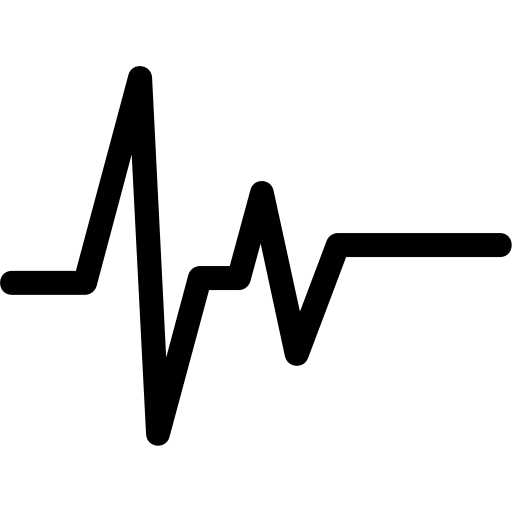
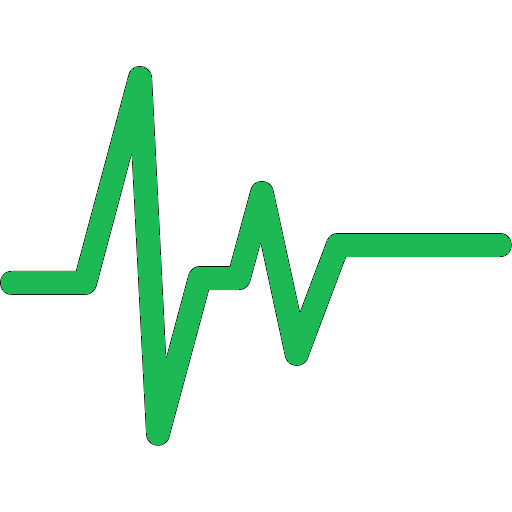
Merge pull request #2 from masheee/navbar
se cambio a color verde el logo de AlgoRitmo

Pull request: se cambio a color verde el logo de AlgoRitmo
yes

Changed region(s): [[0.0, 0.125, 1.0, 0.875]]

diff --git a/src/shared/Footer.jsx b/src/shared/Footer.jsx
@@ -1,4 +1,5 @@
-import { Container } from "react-bootstrap";
+import { Container, Row, Col } from "react-bootstrap";
+import { Github, Instagram, Linkedin } from "react-bootstrap-icons";
 import "../index.css";
 
 const Footer = () => {
@@ -7,13 +8,60 @@ const Footer = () => {
       style={{
         backgroundColor: "var(--color-surface)",
         color: "var(--color-muted)",
-        padding: "1rem",
-        textAlign: "center",
+        padding: "2rem 0",
+        marginTop: "auto",
       }}
     >
       <Container>
-        <p style={{ margin: 0 }}>
-          © 2025 MusicApp - Todos los derechos reservados
+        <Row>
+          {/* Sección 1: Marca */}
+          <Col md={4}>
+            <h5 style={{ color: "var(--color-primary)" }}>AlgoRitmo <img
+            src="/1233.png"
+            alt=" AlgoRitmo Icon"
+            style={{
+              width: "35px",
+              height: "35px",
+            }}
+            className="ms-1"
+          /></h5>
+            <p>Tu música, en cualquier momento.</p>
+          </Col>
+
+          {/* Sección 2: Navegación */}
+          <Col md={4}>
+            <h6>Enlaces</h6>
+            <ul style={{ listStyle: "none", padding: 0 }}>
+              <li><a href="/" style={{ color: "var(--color-muted)", textDecoration: "none" }}>Inicio</a></li>
+              <li><a href="/catalogo" style={{ color: "var(--color-muted)", textDecoration: "none" }}>Listas</a></li>
+              <li><a href="/about" style={{ color: "var(--color-muted)", textDecoration: "none" }}>Acerca de nosotros</a></li>
+              <li><a href="/login" style={{ color: "var(--color-muted)", textDecoration: "none" }}>Login</a></li>
+            </ul>
+          </Col>
+
+          {/* Sección 3: Contacto + Redes */}
+          <Col md={4}>
+            <h6>Contacto</h6>
+            <p>Email: [email redacted]</p>
+
+            <div style={{ display: "flex", gap: "1rem", marginTop: "0.5rem" }}>
+              <a href="https://github.com" target="_blank" rel="noopener noreferrer" style={{ color: "var(--color-muted)", fontSize: "1.5rem" }}>
+                <Github />
+              </a>
+              <a href="https://instagram.com" target="_blank" rel="noopener noreferrer" style={{ color: "var(--color-muted)", fontSize: "1.5rem" }}>
+                <Instagram />
+              </a>
+              <a href="https://linkedin.com" target="_blank" rel="noopener noreferrer" style={{ color: "var(--color-muted)", fontSize: "1.5rem" }}>
+                <Linkedin />
+              </a>
+            </div>
+          </Col>
+        </Row>
+
+        <hr style={{ borderColor: "var(--color-muted)" }} />
+
+        <p className="text-center" style={{ margin: 0 }}>
+          © 2025 AlgoRitmoApp - Todos los derechos reservados
         </p>
       </Container>
     </footer>

diff --git a/src/shared/Menu.jsx b/src/shared/Menu.jsx
@@ -1,28 +1,50 @@
-import Nav from 'react-bootstrap/Nav';
-import Navbar from 'react-bootstrap/Navbar';
-import Container from 'react-bootstrap/Container';
-import Button from 'react-bootstrap/Button';
+import Nav from "react-bootstrap/Nav";
+import Navbar from "react-bootstrap/Navbar";
+import Container from "react-bootstrap/Container";
+import Button from "react-bootstrap/Button";
 import "../index.css";
 
 const Menu = () => {
   return (
-    <Navbar expand="lg" style={{ backgroundColor: "var(--color-surface)" }} variant="dark">
+    <Navbar
+      expand="lg"
+      style={{ backgroundColor: "var(--color-surface)" }}
+      variant="dark"
+    >
       <Container>
-        <Navbar.Brand href="/" style={{ color: "var(--color-primary)", fontWeight: "bold" }}>
-          🎵 AlgoRitmo
+        <Navbar.Brand
+          href="/"
+          style={{ color: "var(--color-primary)", fontWeight: "bold" }}
+        >
+          <img
+            src="/1233.png"
+            alt=" AlgoRitmo Icon"
+            style={{
+              width: "35px",
+              height: "35px",
+            }}
+            className="me-2"
+          />
+          AlgoRitmo
         </Navbar.Brand>
         <Navbar.Toggle aria-controls="basic-navbar-nav" />
         <Navbar.Collapse id="basic-navbar-nav">
           <Nav className="ms-auto">
-            <Nav.Link href="/" style={{ color: "var(--color-text)" }}>Inicio</Nav.Link>
-            <Nav.Link href="/catalogo" style={{ color: "var(--color-text)" }}>Listas</Nav.Link>
-            <Nav.Link href="/nosotros" style={{ color: "var(--color-text)" }}>Nosotros</Nav.Link>
-            <Button 
-              href="/login" 
-              style={{ 
+            <Nav.Link href="/" style={{ color: "var(--color-text)" }}>
+              Inicio
+            </Nav.Link>
+            <Nav.Link href="/catalogo" style={{ color: "var(--color-text)" }}>
+              Listas
+            </Nav.Link>
+            <Nav.Link href="/nosotros" style={{ color: "var(--color-text)" }}>
+              Nosotros
+            </Nav.Link>
+            <Button
+              href="/login"
+              style={{
                 marginLeft: "1rem",
-                backgroundColor: "var(--color-primary)", 
-                border: "none" 
+                backgroundColor: "var(--color-primary)",
+                border: "none",
               }}
             >
               Ingresar

diff --git a/src/App.jsx b/src/App.jsx
@@ -1,4 +1,3 @@
-import { Container, Button, Card } from "react-bootstrap";
 import Menu from "./shared/Menu";
 import Footer from "./shared/Footer";
 import Main from "./components/Main"
@@ -7,7 +6,7 @@ export default function AppLayout() {
   return (
     <>
       <Menu />
-      <Main></Main>
+      <Main/>
       <Footer />
     </>
   );

diff --git a/index.html b/index.html
@@ -4,7 +4,7 @@
     <meta charset="UTF-8" />
     <meta name="description" content="Streaming de musica"/>
     <meta name="author" content="Maximiliano Gómez Tolrá, José Ledesma Padilla, Mariano Juarez, Maximiliano Brian Guerrero, Paula Cecilia Cabana, Sebastian Flomenbaum"/>
-    <link rel="icon" type="image/svg+xml" href="/vite.svg"/>
+    <link rel="icon" type="image/svg+xml" href="/1233.png"/>
     <meta name="viewport" content="width=device-width, initial-scale=1.0" />
     <title>AlgoRitmo</title>
   </head>

diff --git a/src/components/Main.jsx b/src/components/Main.jsx
@@ -7,7 +7,7 @@ const Main = () => {
     <>
       <main style={{ padding: "2rem 0", flex: "1" }}>
         <Container>
-          <p className="text-center fs-5 ">Hola Aqui va el MAIN</p>
+          <p className="text-center fs-5">Hola Aqui va el MAIN</p>
         </Container>
       </main>
     </>